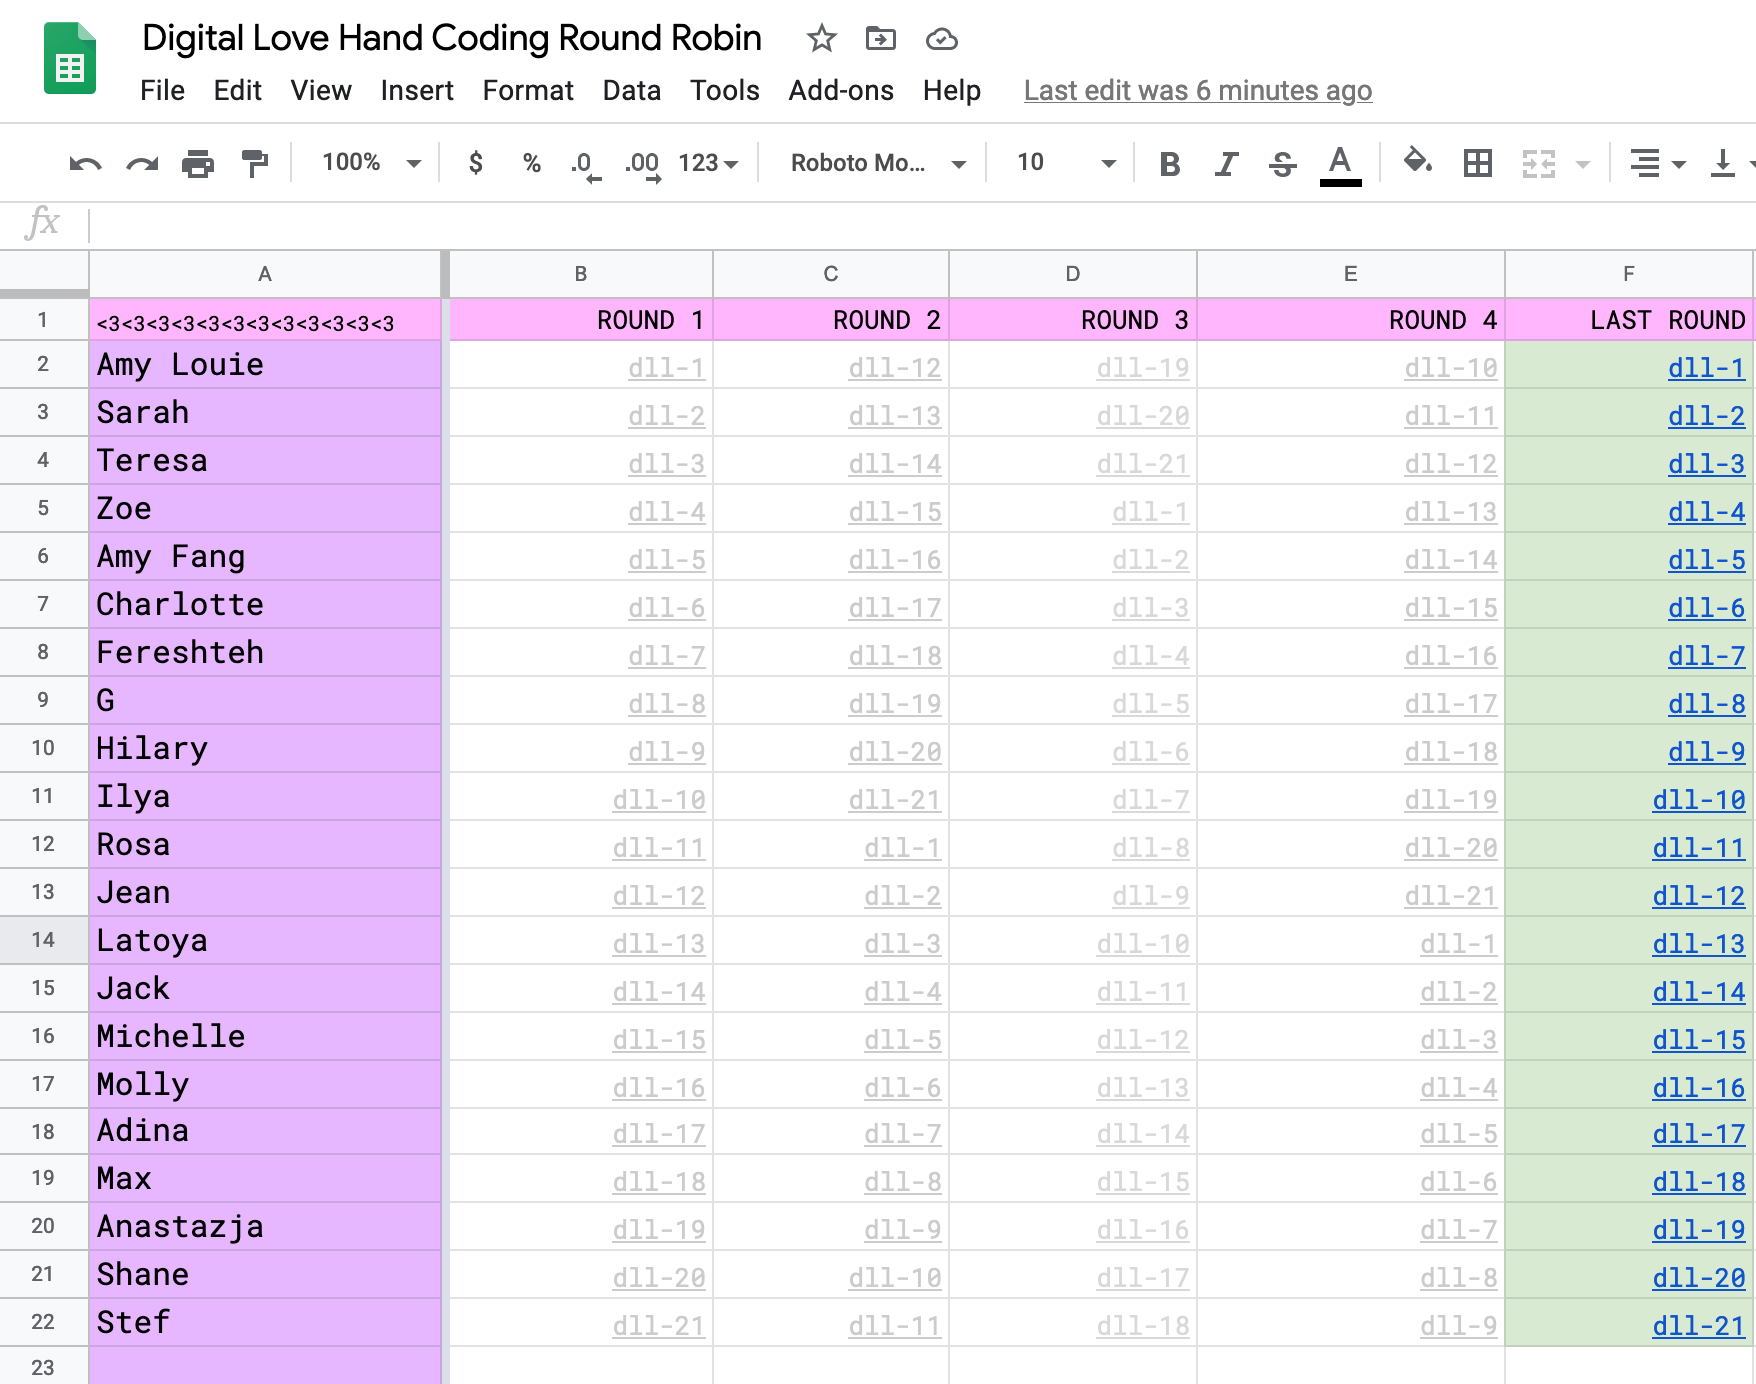
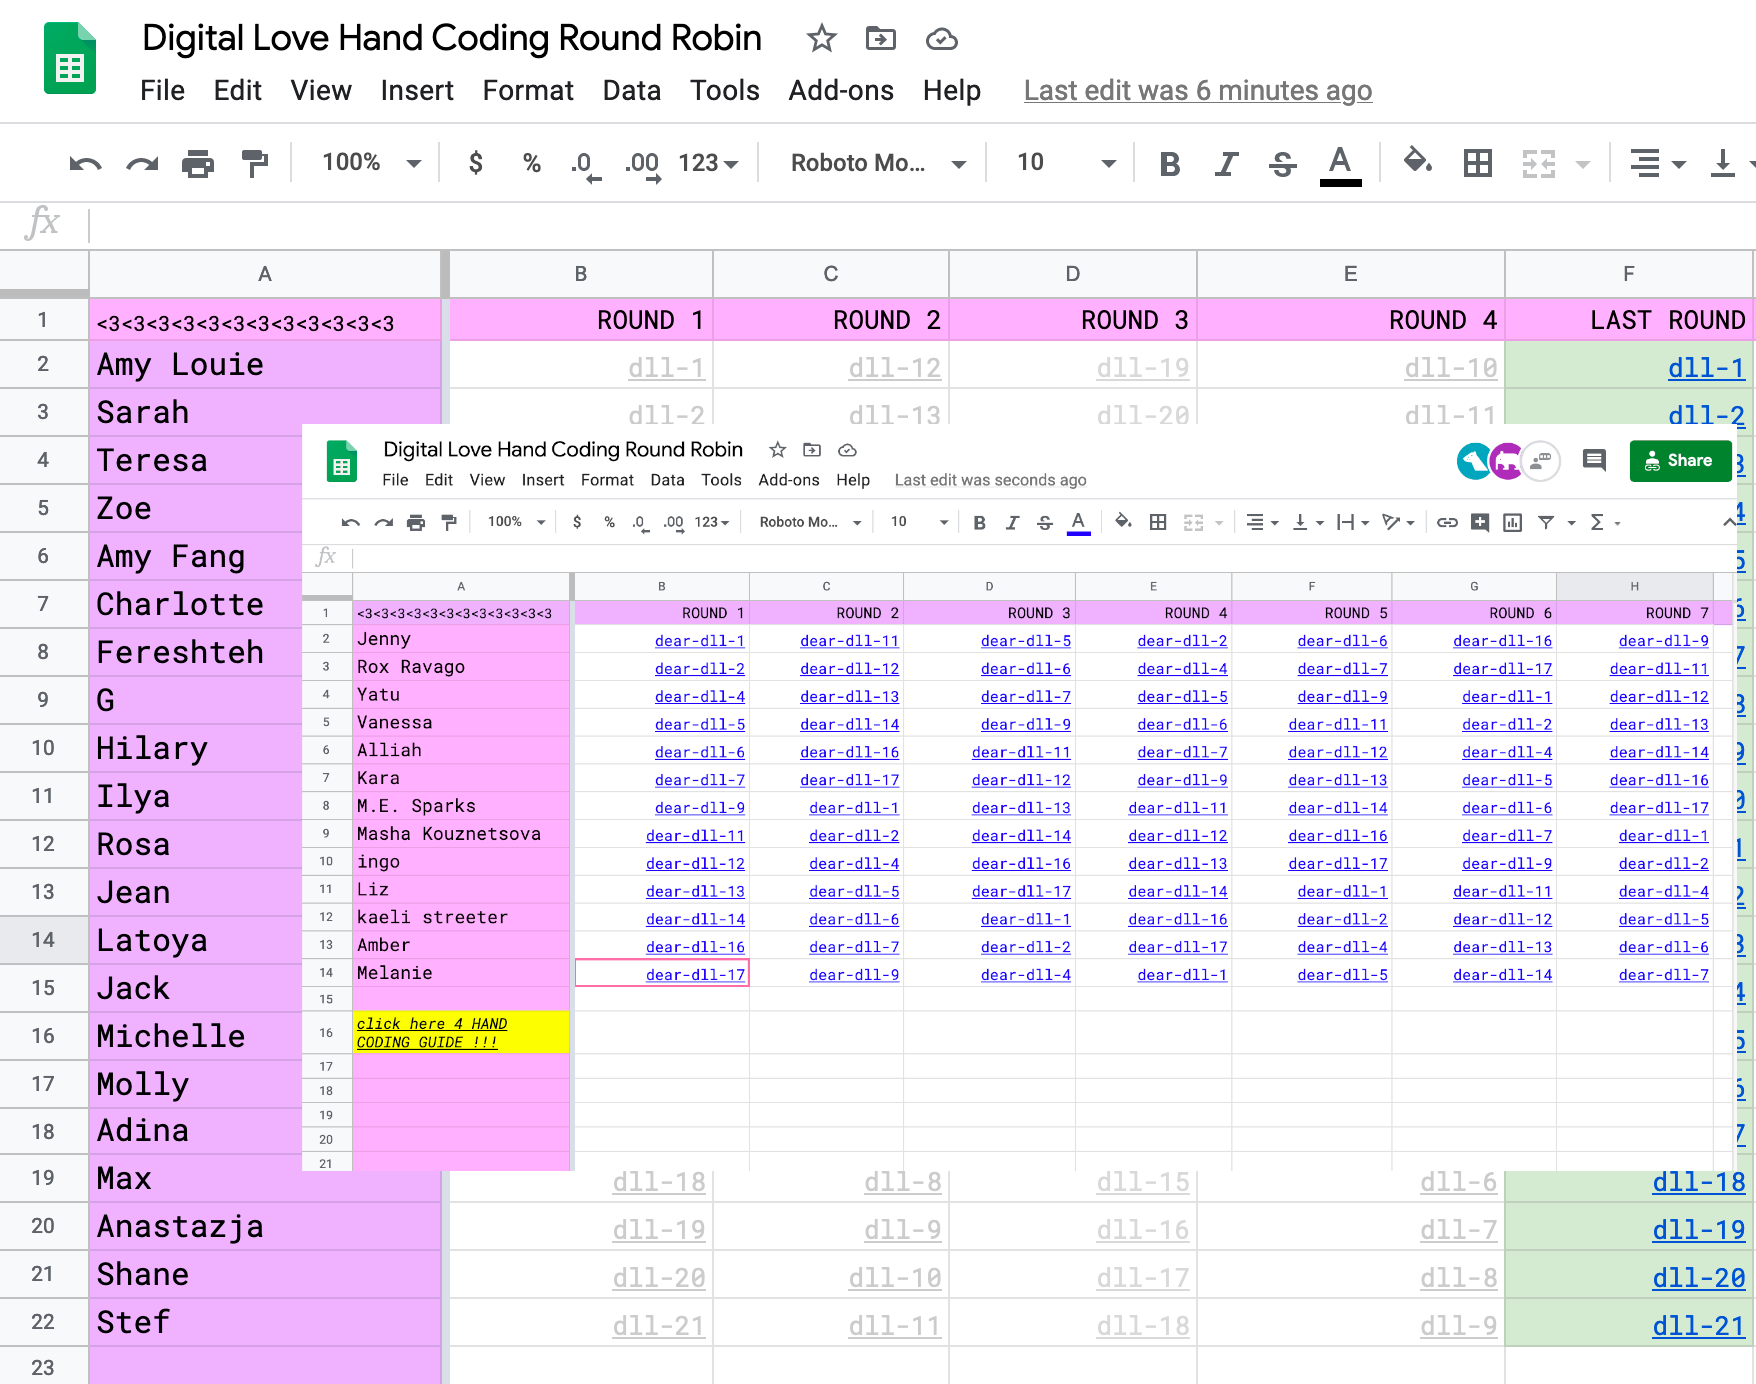
Add

Changed region(s): [[0.1538, 0.2796, 1.0, 0.8699], [0.0, 0.0, 0.0615, 0.0621]]

diff --git a/dll-july-2020-with-melanie/index.html b/dll-july-2020-with-melanie/index.html
@@ -9,7 +9,7 @@
 
   <body class="home">
     <h1 class="handcoding"><a href="../index.html">Hand Coding Round Robin</a></h1>
-    <h2 class="handcoding">below are xx pages from two <em>online</em> workshops held on July 27 + 28, 2020 with Melanie Hoff's Digital Love Languages class. led by emma rae norton. <a href="spreadsheet.png" target="_blank">xx participants</a> collaboratively wrote love letters as web pages as love letters with each other. through adding and styling the content of each others web pages students learned the basic building blocks of web development as well as what it feels like to code with and for each other.</h2>
+    <h2 class="handcoding">below are 34 pages from two <em>online</em> workshops held on July 27 + 28, 2020 with Melanie Hoff's Digital Love Languages class. led by emma rae norton. <a href="spreadsheet.png" target="_blank">34 participants</a> collaboratively wrote love letters as web pages as love letters with each other. through adding and styling the content of each others web pages students learned the basic building blocks of web development as well as what it feels like to code with and for each other.</h2>
     <div class="grid">
 
       <iframe src="https://dear-dll-1.glitch.me/" width="100%"></iframe>
@@ -25,7 +25,7 @@
       <iframe src="https://dear-dll-14.glitch.me/" width="100%"></iframe>
       <iframe src="https://dear-dll-16.glitch.me/" width="100%"></iframe>
       <iframe src="https://dear-dll-17.glitch.me/" width="100%"></iframe>
-      
+
       <iframe src="https://1-dll.glitch.me/" width="100%"></iframe>
       <iframe src="https://2-dll.glitch.me/" width="100%"></iframe>
       <iframe src="https://3-dll.glitch.me/" width="100%"></iframe>
